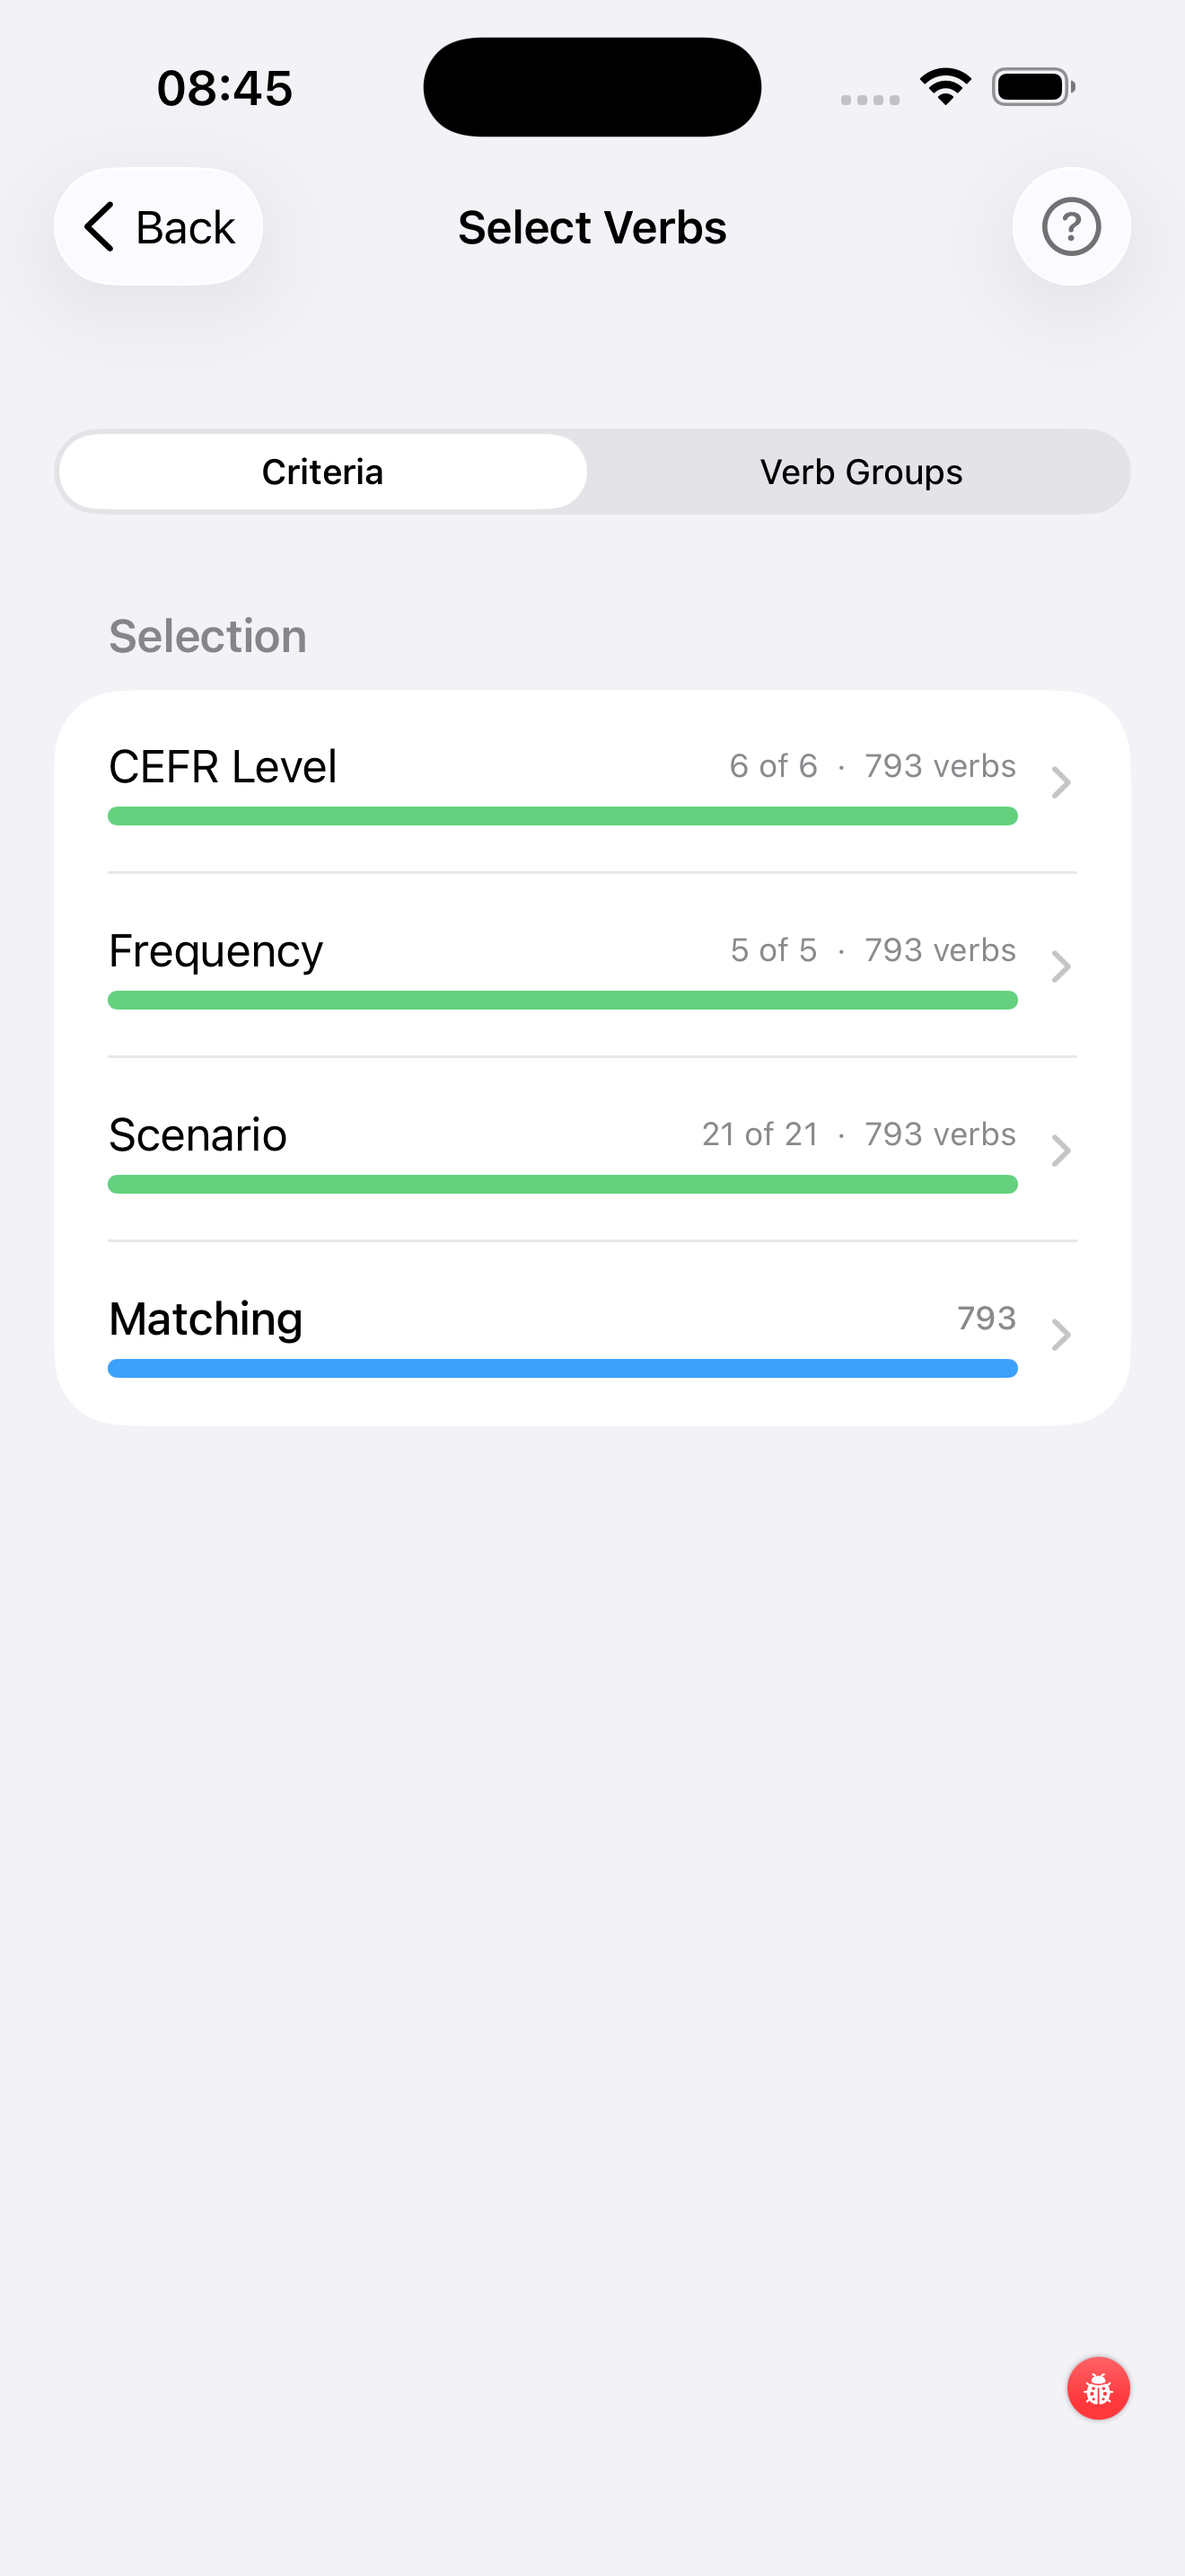
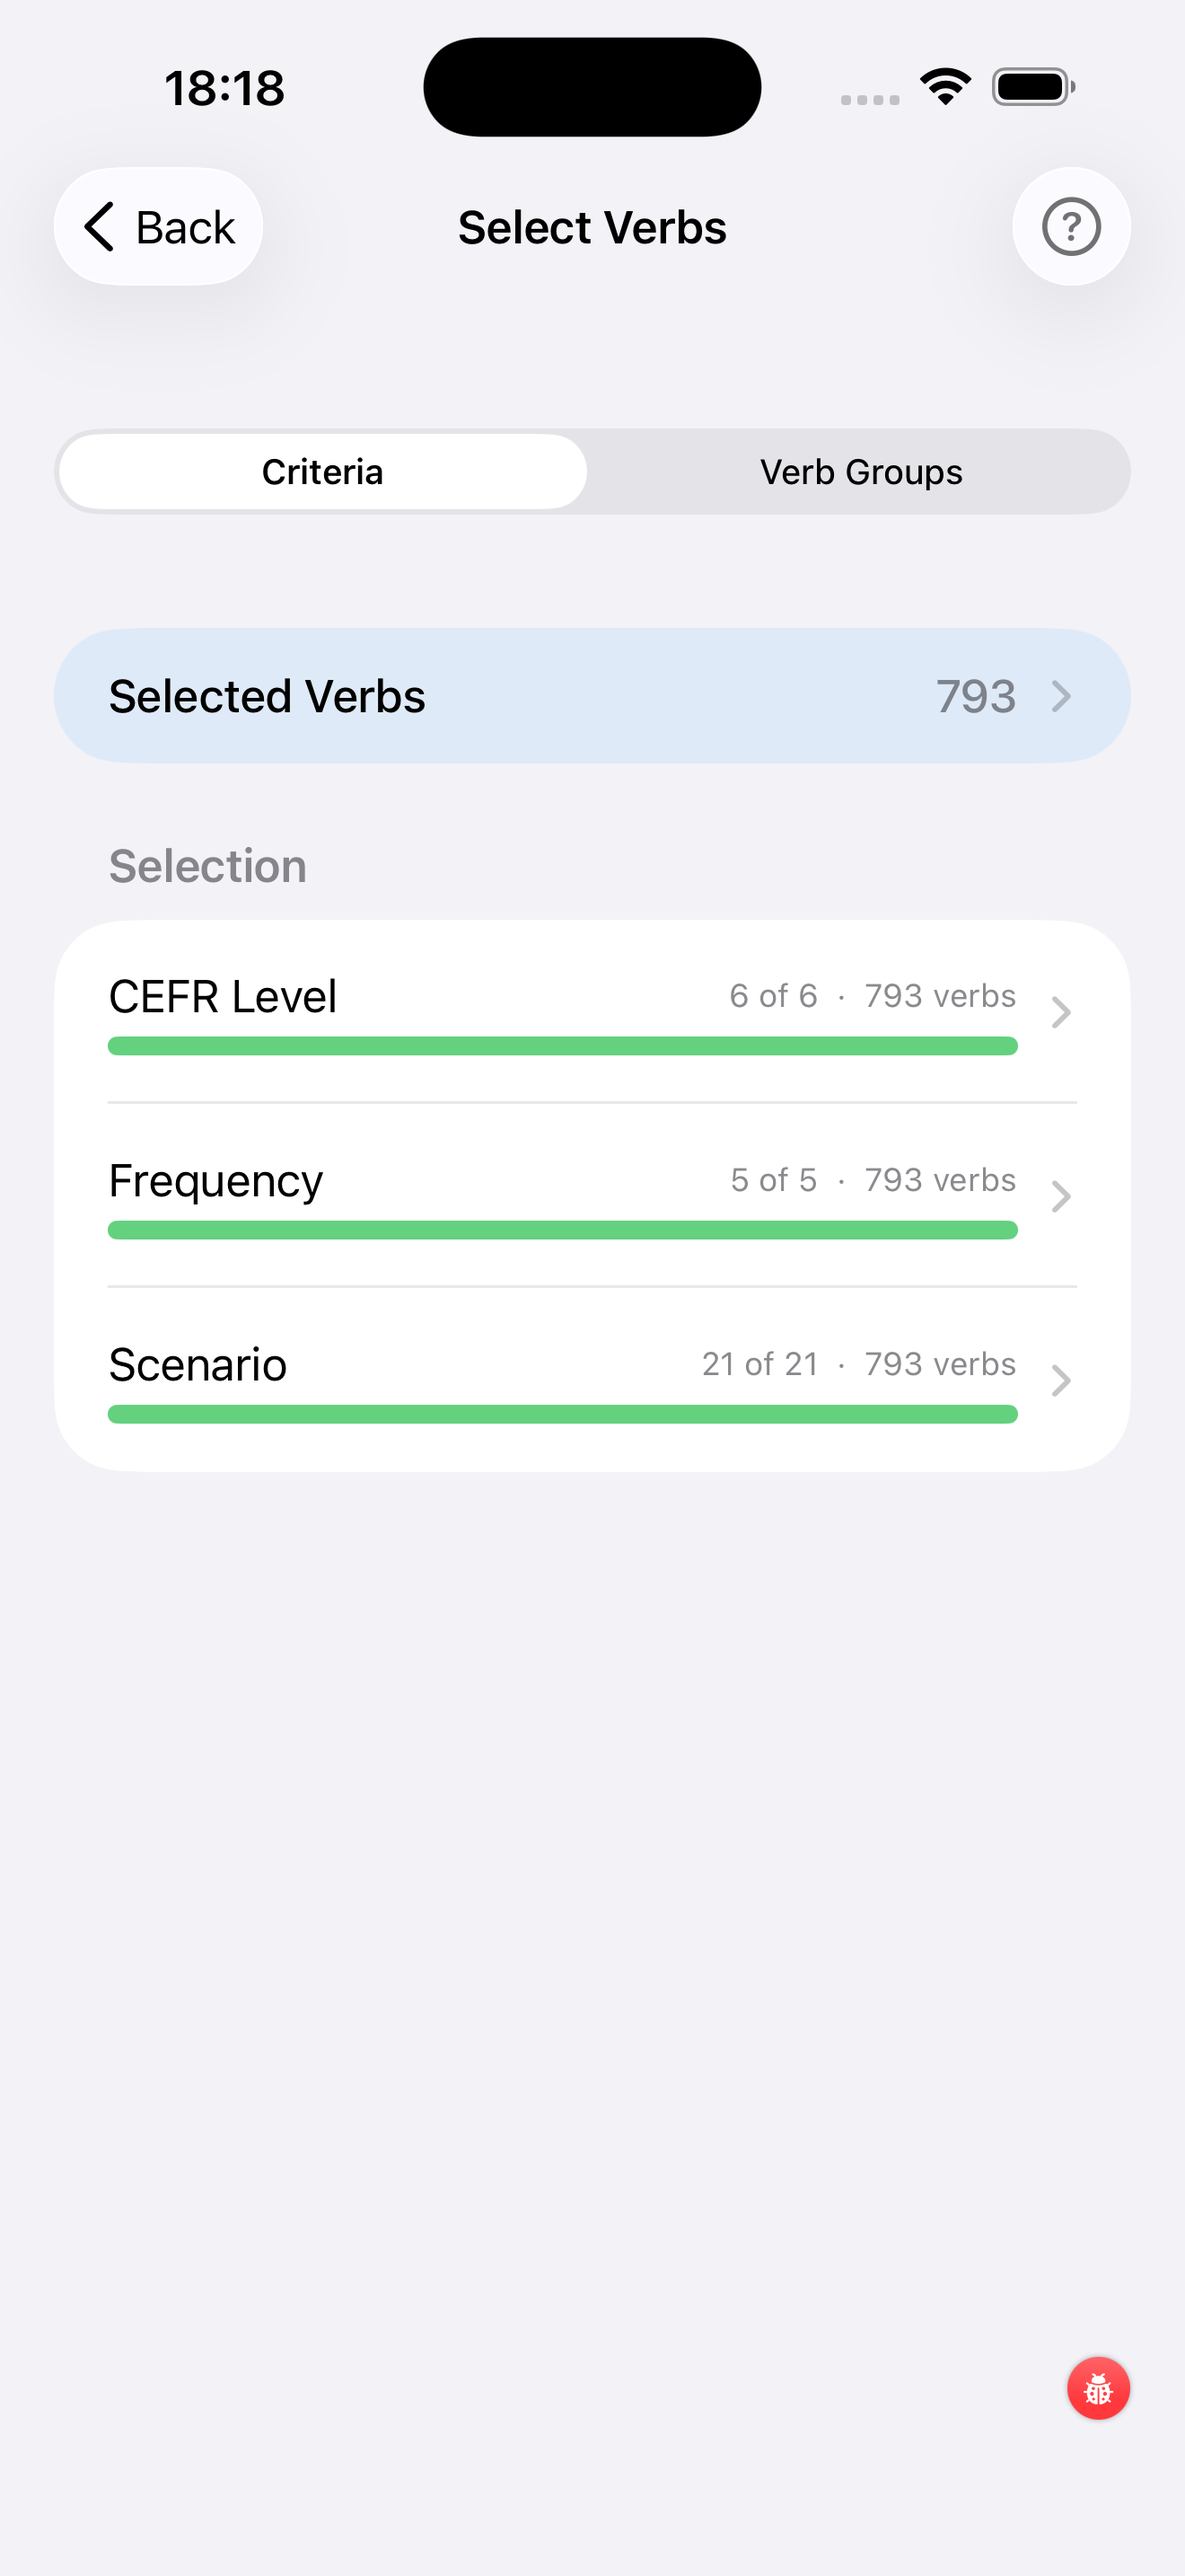
Getting started

Changed region(s): [[0.0621, 0.2172, 0.9629, 0.5586], [0.1864, 0.031, 0.2485, 0.0621], [0.1242, 0.031, 0.1553, 0.0621]]

diff --git a/docs/user-guide/verbs/select-verbs/index.md b/docs/user-guide/verbs/select-verbs/index.md
@@ -1,6 +1,8 @@
 # Selecting Verbs
+Spanish Coach includes nearly 800 Spanish verbs. The Select Verbs screen lets you narrow these down to exactly the set you want to practise. There are two different methods to select:
 
-Spanish Coach includes nearly 800 Spanish verbs. The Select Verbs screen lets you narrow these down to exactly the set you want to practise.
+- Specify criteria such as difficulty, frequency, and topic.
+- Select verbs based on their grammatical character.
 
 ---
 
@@ -8,59 +10,58 @@ Spanish Coach includes nearly 800 Spanish verbs. The Select Verbs screen lets yo
 
 Use the Criteria tab to filter verbs by difficulty, frequency, and topic.
 
-<div class="screenshot-annotated">
-<img src="../../../screenshots/Select Verbs - Criteria.png" alt="Spanish Coach Main Screen">
-</div>
+1. Tap on the **Criteria tab** row to choose which CEFR levels to include (A1, A2, B1, B2, C1, C2). The bar shows how many levels are selected.
+2. Tap on **Frequency** to select verbs by their frequency of occurrence.
+3. Tap on **Scenario** to select verbs associated with certain scenarios, e.g. Art, Body, Education, Emotion, Entertainment, …
 
-1. **Criteria tab** — filter by CEFR level, frequency, and scenario (active tab)
-2. **Verb Groups tab** — select verbs by named groups instead of criteria
-3. **CEFR Level** — tap to choose which CEFR levels to include (A1, A2, B1, B2, C1, C2). The green bar shows how many levels are selected.
-4. **Frequency** — tap to include only the most commonly used verbs (1 = most common, 5 = all)
-5. **Scenario** — tap to filter by topic (e.g. Food, Travel, Health). [See scenarios →](#scenario-selection)
-6. **Matching** — shows how many verbs currently match all your filters combined. The blue bar is your working set.
+In each of the three selection screens, the number of verbs selected by that single criterion is shown. Tapping the bar shows the actual verbs.
 
-!!! tip "Start small"
-    For beginners, try CEFR A1+A2, Frequency 1–2, and one or two scenarios. This gives you a focused set of 30–60 high-priority verbs.
-
----
-
-## Scenario selection
+The resulting set of verbs meets all the criteria just specified. The 'Selected Verbs' row displays how many verbs are selected. By tapping it the final selected list of verbs is displayed. If you have been too selective and the resulting set of verbs is empty, the system issues a warning when you attempt to leave the screen.
 
 <div class="screenshot-annotated">
-<img src="../../../screenshots/Select Verbs - Scenario selection.png" alt="Select Verbs — Scenario">
+<img src="../../../screenshots/Select Verbs - Criteria.png" alt="Select Verbs — Criteria">
 </div>
 
-1. **Verb count** — shows how many verbs are in this scenario category
-2. **None** — tap to deselect all scenarios at once
-3. **Checkboxes** — tap any scenario to toggle it on (blue tick) or off. Selecting more scenarios adds more verbs to your practice set.
 
-Available scenarios include: Art, Body, Education, Emotion, Entertainment, Environment, Family, Food, Health, History, Hobby, Home, Law, Media, Nature, Social, Sport, Technology, Transport, and more.
 
 ---
 
 ## Verb Groups tab
 
+The other approach to selecting verbs is by their grammatical character. Many verbs are conjugated regularly, but there are also groups of verbs that behave differently. Several verb group categories are distinguished:
+
+- Basic
+- Stem Changes
+- Yo and Spelling
+- Preterite and Advanced
+- Restricted
+
+!!! tip "User Interface Tip"
+    Tap the name of the verb group category to get an explanation of that category.
+
+Each verb group category contain 2 or more verbgroups. You can include or exclude a particular verb group by tapping the check box.
+
+
 <div class="screenshot-annotated">
 <img src="../../../screenshots/Select Verbs - Verb Groups.png" alt="Select Verbs — Verb Groups">
 </div>
 
-1. **Criteria tab** — filter by CEFR level, frequency, and scenario
-2. **Verb Groups tab** — select verbs by named linguistic groups (active tab)
-3. **Group header** — named categories such as *Basic*, *Stem Changes*, *Yo & Spelling*; tap to expand/collapse
-4. **Group checkbox** — tap to toggle all verbs in this sub-group on or off
-5. **Matching count** — updates instantly as you make changes
+
+!!! tip "User Interface Tip"
+    Swiping left on a verb group, displays an explanation of the verbgroup.
+
+!!! tip "User Interface Tip"
+    Swiping right shows the list of verbs belonging to this group.
 
 ---
 
 ## Verb list
+The resulting set of verbs meets all the criteria just specified. The 'Selected Verbs' row displays how many verbs are selected. By tapping it the final selected list of verbs is displayed. If you have been too selective and the resulting set of verbs is empty, the system issues a warning when you attempt to leave the screen.
 
 <div class="screenshot-annotated">
 <img src="../../../screenshots/Select Verbs - Overview of selected verbs.png" alt="Select Verbs — Overview">
 </div>
 
-1. **Search** — type any Spanish or English word to filter the list instantly
-2. **Alphabetical index** — tap a letter on the right edge to jump directly to that section of the list
+1. **Search** — type any Spanish or English word to filter the list instantly.
+2. **Alphabetical index** — tap a letter on the right edge to jump directly to that section of the list.
 3. **Verb list** — shows all verbs matching your current criteria with their English translation. Tap any verb to see its full details.
-
-[Back to Verbs Coach ←](../){ .md-button }
-[Next: Selecting Tenses →](../select-tenses/){ .md-button }

diff --git a/docs/user-guide/verbs/index.md b/docs/user-guide/verbs/index.md
@@ -6,12 +6,12 @@ The Verbs Coach screen is your control centre for verb practice. It's divided in
 <img src="../../screenshots/Verbs Coach.png" alt="Verbs Coach Screen">
 </div>
 
-1. **Help** — tap the ? icon for a quick explanation of each test type
+1. **Help** — tap the :material-help-circle: icon for a quick explanation of each test type
 2. **Settings** — adjust session length and other preferences
 
 ### Setup
 
-3. **Select verbs** — choose which verbs to include in your practice. Shows the current count (e.g. "492 verbs"). [Learn more →](select-verbs/)
+3. **Select verbs** — choose which verbs to include in your practice. Shows the current count (e.g. "492 verbs").
 4. **Select tenses** — choose which tenses to practise (e.g. "16 of 16"). Tap to include or exclude specific tenses.
 
 ### Study
@@ -57,4 +57,3 @@ Every row on the Verbs Coach screen is a navigation link. Here is the complete m
 4. Progress to **Conjugation Drill** and **Recognition** for deeper practice
 5. Use the **Participle**, **Gerundio**, and **Indefinido** drills to master the most common irregular forms
 
-[Next: Selecting Verbs →](select-verbs/){ .md-button }

diff --git a/docs/user-guide/self-study/index.md b/docs/user-guide/self-study/index.md
@@ -6,7 +6,7 @@ The Self Study screen lets you choose what type of vocabulary or grammar you wan
 <img src="../../screenshots/Self Study.png" alt="Self Study Screen">
 </div>
 
-1. **Verbs** — practise verb meanings, conjugation, gerund, participle, and irregular forms. [Learn more →](../verbs/)
+1. **Verbs** — practise verb meanings, conjugation, gerund, participle, and irregular forms.
 2. **Nouns** — practise articles, gender, singular and plural forms
 3. **Words & Phrases** — practise adjectives, adverbs, and common expressions
 4. **Settings** — app and session preferences
@@ -19,4 +19,3 @@ The Self Study screen lets you choose what type of vocabulary or grammar you wan
 
 **Nouns** and **Words & Phrases** follow a similar structure: select the words you want to study, then test yourself.
 
-[Next: Verbs Coach →](../verbs/){ .md-button }

diff --git a/docs/user-guide/verbs/recognition/index.md b/docs/user-guide/verbs/recognition/index.md
@@ -22,4 +22,3 @@ The Recognition drill shows you a conjugated verb form and asks you to identify 
     Some conjugated forms are shared by more than one person or tense (e.g. *habló* = él habló / ellos hablaron). If your answer is correct for any valid combination, the app marks it right and shows the other valid answers.
 
 [← Back to Verbs Coach](../){ .md-button }
-[Next: Gerund (Gerundio) →](../gerundio/){ .md-button }

diff --git a/docs/user-guide/verbs/gerundio/index.md b/docs/user-guide/verbs/gerundio/index.md
@@ -27,4 +27,3 @@ The back of the card shows the gerundio. Irregular changes are highlighted in re
 After you tap a button, the card briefly flashes the corresponding colour before advancing to the next card automatically. At the end of the deck a summary shows correct vs. wrong counts and a **Drill Again** button.
 
 [← Back to Verbs Coach](../){ .md-button }
-[Next: Past Participle →](../past-participle/){ .md-button }

diff --git a/docs/user-guide/verbs/word-meanings-study/index.md b/docs/user-guide/verbs/word-meanings-study/index.md
@@ -16,4 +16,3 @@ The Word Meanings study screen is a browse-only reference: no testing, no timers
 The list shows the verbs selected for your current session, not your entire selection. If you want to browse all selected verbs, use the [Conjugation Tables](../conjugation-tables/) screen instead.
 
 [← Back to Verbs Coach](../){ .md-button }
-[Next: Conjugation Drill →](../conjugation-drill/){ .md-button }

diff --git a/docs/user-guide/verbs/conjugation-drill/index.md b/docs/user-guide/verbs/conjugation-drill/index.md
@@ -39,4 +39,3 @@ Pick mode is useful when you are learning new tenses and the keyboard input feel
     The multiple-choice distractors are phonetically similar to the correct answer, so you still have to think carefully — you cannot just spot the odd one out.
 
 [← Back to Verbs Coach](../){ .md-button }
-[Next: Word Meanings Flashcard →](../verb-meanings-test/){ .md-button }

diff --git a/docs/user-guide/verbs/conjugation-tables/index.md b/docs/user-guide/verbs/conjugation-tables/index.md
@@ -56,4 +56,3 @@ The Conjugation Tables browser lets you look up the full conjugation of any verb
     Use this screen alongside any test. When you get an answer wrong, tap the book icon on the test card to jump straight here and see the full table.
 
 [← Back to Verbs Coach](../){ .md-button }
-[Next: Word Meanings →](../word-meanings-study/){ .md-button }

diff --git a/docs/user-guide/verbs/past-participle/index.md b/docs/user-guide/verbs/past-participle/index.md
@@ -30,4 +30,3 @@ The card flashes the corresponding colour before advancing automatically.
     The drill always includes all irregular participles from your verb selection, plus roughly half as many regular participles to keep your ear calibrated.
 
 [← Back to Verbs Coach](../){ .md-button }
-[Next: Preterite (Indefinido) →](../indefinido/){ .md-button }

diff --git a/docs/user-guide/verbs/select-tenses/index.md b/docs/user-guide/verbs/select-tenses/index.md
@@ -31,4 +31,3 @@ The title bar always shows the current count (e.g. **Select Tenses (16)**) so yo
     Start with just the **Indicativo – Simples** group. Master those five tenses before adding the subjunctive or compound tenses.
 
 [Back to Verbs Coach ←](../){ .md-button }
-[Next: Conjugation Tables →](../conjugation-tables/){ .md-button }

diff --git a/docs/user-guide/verbs/verb-meanings-test/index.md b/docs/user-guide/verbs/verb-meanings-test/index.md
@@ -33,4 +33,3 @@ The app uses these ratings to schedule which verbs appear more frequently in fut
 At the end of the deck, a summary screen shows your Correct / Hesitate / Wrong counts and lets you start a new session.
 
 [← Back to Verbs Coach](../){ .md-button }
-[Next: Recognition →](../recognition/){ .md-button }

diff --git a/docs/user-guide/spanish-coach/index.md b/docs/user-guide/spanish-coach/index.md
@@ -22,4 +22,3 @@ At the top of the screen you see icons, on the right to change user setttings an
 
 
 
-[Next: Self Study →](../self-study/){ .md-button }
